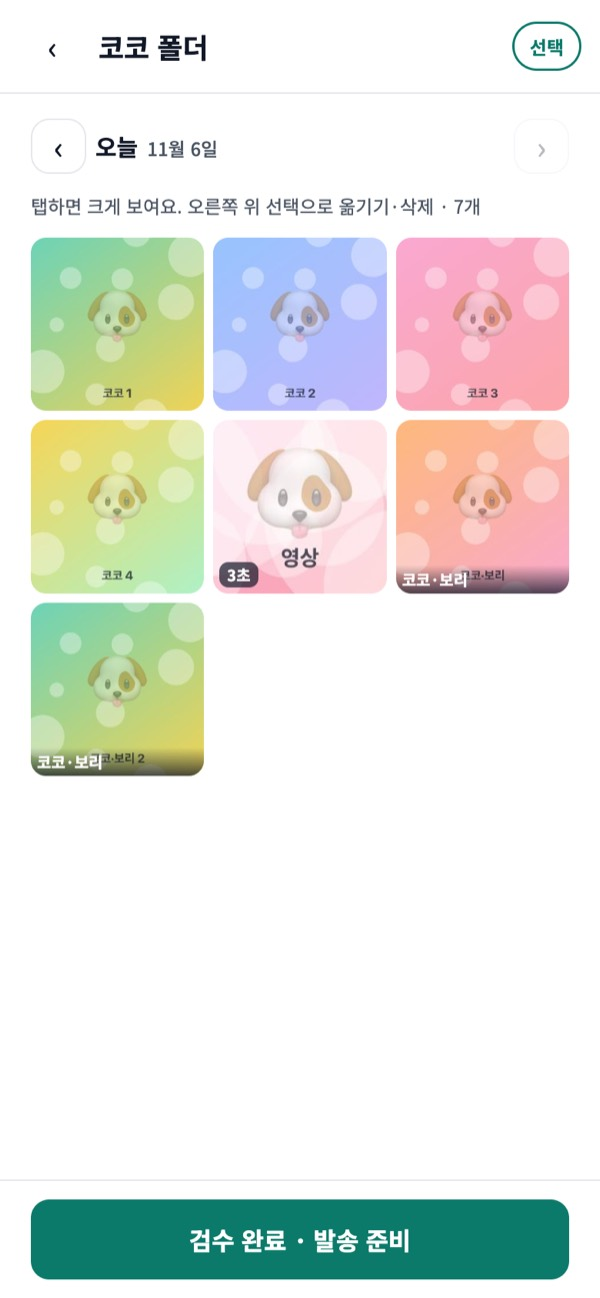
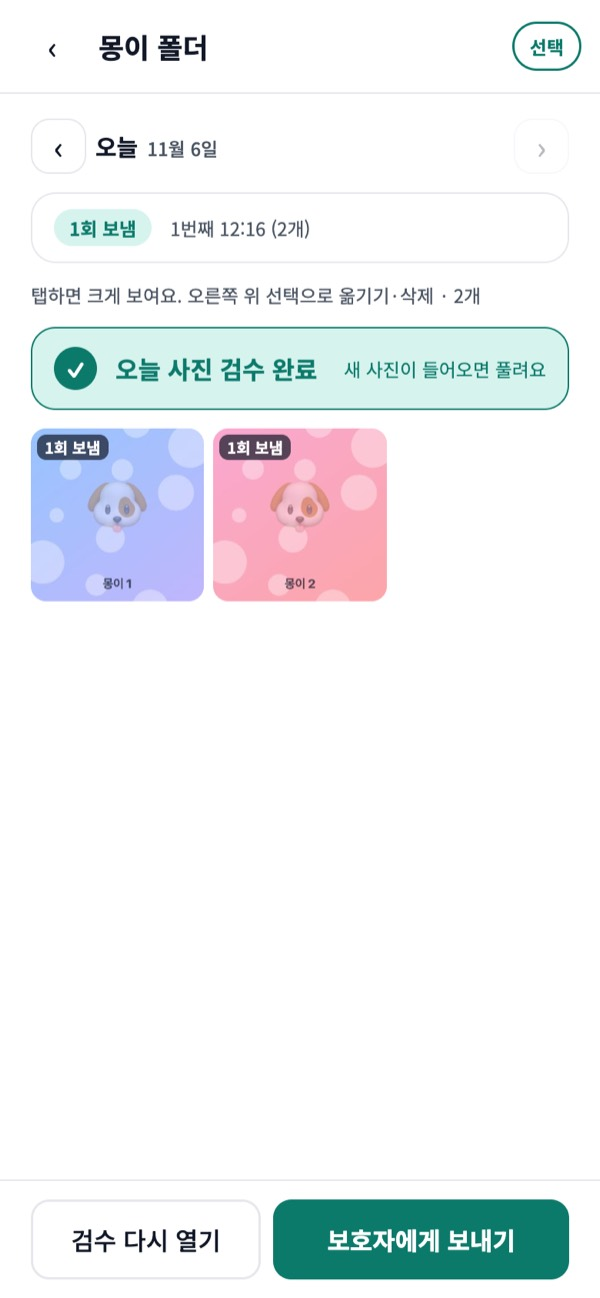
사용 안내 그림 갱신: 오늘 폴더·강아지 폴더·보내기 화면을 새 발송 흐름으로 다시 캡처, 발송 이력 그림 추가

diff --git a/web/src/screens/Guide.tsx b/web/src/screens/Guide.tsx
@@ -134,7 +134,7 @@ export function GuideScreen() {
         <Section id="folder" title="6. 폴더 검수와 검수 완료">
           <p>퇴근 전에 강아지별로 오늘 사진을 한 번 훑어보고 <b>검수 완료</b>를 눌러 "다 봤다"는 표시를 남깁니다. 오늘 폴더에서 강아지 탭 → <b>사진 폴더 검수</b>.</p>
           <p><b>보기.</b> 사진을 탭하면 크게 떠요. 좌우로 밀어 넘기고, 영상은 바로 재생돼요. 위에 "3 / 12", 아래에 강아지 이름과 찍은 시각.</p>
-          <Shot src="11-folder-review" alt="강아지 폴더" />
+          <Shot src="11-folder-review" alt="강아지 폴더. 위에 발송 이력 한 줄, 보낸 사진엔 1회 보냄 표시" />
           <p><b>편집.</b> 크게 보는 화면 오른쪽 위 <b>편집</b>.</p>
           <Table head={['대상', '할 수 있는 것']} rows={[
             ['사진', '회전, 비율 자르기(원본 · 1:1 · 4:5 · 3:4 · 16:9). 프레임 안에서 사진을 끌어 위치를 맞추고 확대 슬라이더, 밝기'],
@@ -156,7 +156,7 @@ export function GuideScreen() {
             ['사진 압축', '켜짐', '사진 한 장 3~5MB → 0.5MB 안팎. 폰 화면으로 보긴 차이 없고 전송이 빠름'],
             ['영상 압축', '꺼짐', '720p로 변환. 영상 길이만큼 걸려요(30초 영상 = 30초). 와이파이면 굳이 안 켜도 돼요'],
           ]} />
-          <Shot src="18-send" alt="보호자에게 보내기 화면" />
+          <Shot src="18-send" alt="보호자에게 보내기 화면. 미발송 사진이 있는 아이만 카드로" />
           <p><b>보내는 순서.</b></p>
           <ol>
             <li>안 보낸 사진이 있는 아이가 카드로 떠요. "미발송 N개 · 오늘 전체 M개", 보호자 연락처, 몇 회 보냈는지가 보여요. 썸네일을 누르면 그 폴더로 가서 마지막으로 확인할 수 있어요.</li>
@@ -165,6 +165,7 @@ export function GuideScreen() {
             <li>전송을 끝내면 발송 1건이 기록되고 "2번째 발송 완료"처럼 떠요. 공유 창을 그냥 닫으면 기록되지 않아요.</li>
           </ol>
           <p><b>발송 이력.</b> 카드의 <b>발송 이력 보기</b>를 누르면 몇 번째, 몇 시, 사진 몇 장·영상 몇 개를 보냈는지와 그때 보낸 썸네일이 회차별로 나와요. 폴더 검수 화면에서도 사진마다 "1회 보냄" 표시가 붙어요.</p>
+          <Shot src="18b-send-history" alt="발송 이력. 1번째 12:02에 사진 2장을 보낸 기록" />
           <p><b>용량이 클 때.</b> 15개 또는 150MB가 넘으면 자동으로 묶음이 나뉩니다. <b>1묶음 보내기</b>, <b>2묶음 보내기</b>를 차례로 누르면 돼요. 한 번 탭에 한 묶음만 보낼 수 있는 폰 규칙 때문이고, 묶음마다 발송 1회로 기록돼요.</p>
           <p>다 보낸 아이는 아래 <b>다 보낸 아이 N마리 보기</b>로 접혀 있어요. 설정의 자동 정리로 원본이 지워진 사진은 다시 보낼 수 없어요.</p>
         </Section>
